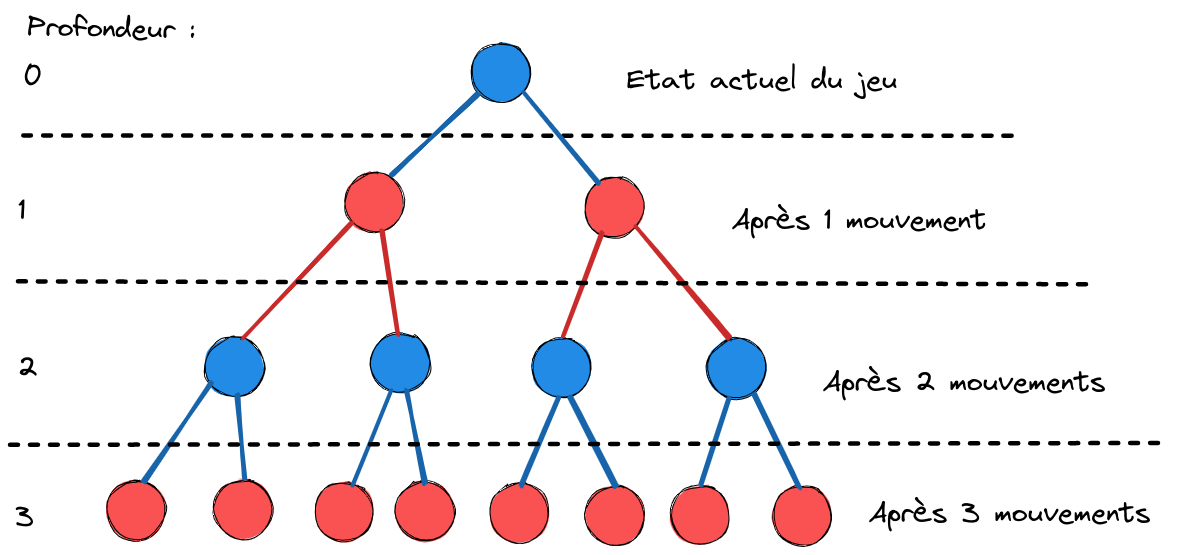
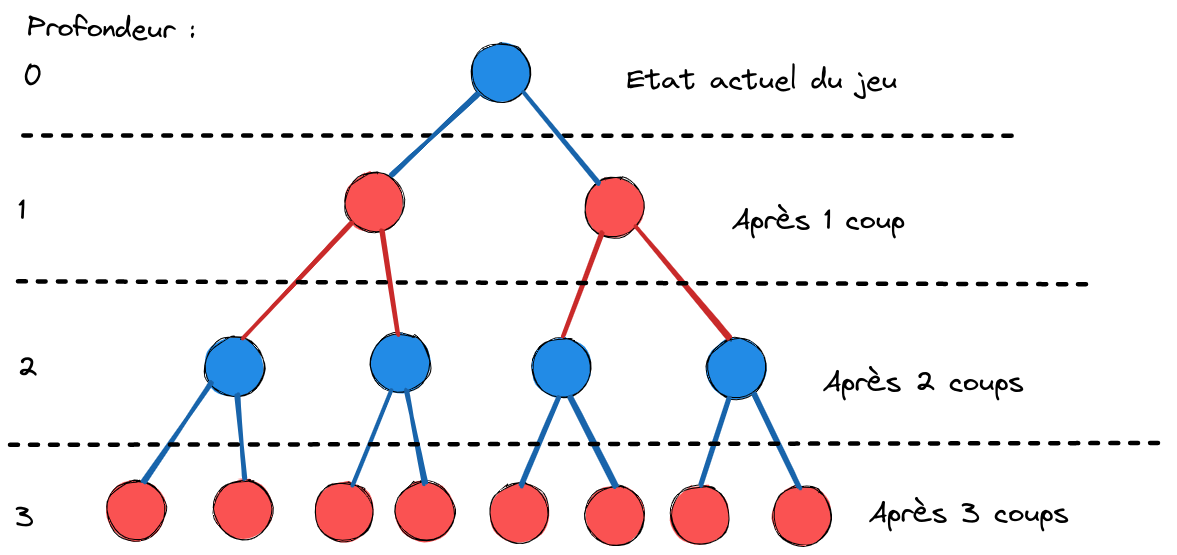
Je commence à en avoir marre

Changed region(s): [[0.7035, 0.3676, 0.8564, 0.4288], [0.8258, 0.8883, 0.9788, 0.9495], [0.7952, 0.6739, 0.9482, 0.7045]]

diff --git a/source/algorithme-minimax.md b/source/algorithme-minimax.md
@@ -6,65 +6,69 @@ Tout d'abord, il s'agit de définir le fonctionnement de l'algorithme Minimax et
 
 ### Arbre des possibilités
 
-L'algorithme Minimax fonctionne en recherchant dans une situation donnée, parmi tous les coups possibles, lequel est le plus favorable pour le joueur et le plus défavorable pour son adversaire. Concrètement, il s'agit d'explorer de haut en bas un arbre des possibilités qui recense tous les coups possibles, sur plusieurs coups à l'avance (le nombre de coups à l'avance représente la profondeur de recherche de l'algorithme) :
+L'algorithme Minimax fonctionne en recherchant dans une situation donnée, parmi tous les coups possibles, lequel est le plus optimal à jouer dans le but de gagner. Concrètement, il s'agit d'explorer de haut en bas un arbre des possibilités qui recense tous les coups possibles, sur plusieurs coups à l'avance (voir {numref}`minimax_tree`).
 
 ```{figure} images/minimax_tree.png
 ---
+name: minimax_tree
 ---
 
 Arbre des possibilités d'un jeu binaire, chaque noeuds représente un état possible du jeu.
 ```
 
-Les noeuds bleus représentent les états du jeu lorsque c'est au joueur de jouer le prochain coup tandi que les noeuds rouges représentent les états lorsque c'est à l'adversaire de jouer.
+Les noeuds bleus représentent les états du jeu lorsque c'est au premier joueur de jouer le prochain coup alors que les noeuds rouges représentent les états où c'est à son adversaire de jouer.
 
 ### Evaluation des feuilles
 
-Lors de son exploration de l'arbre, si l'algorithme atteint une feuille (un noeud de l'arbre qui ne se prolonge pas plus bas), soit parce que le jeu est arrivée à un terme, soit parce que la profondeur de recherche ne va pas plus bas par rapport au noeud initial, alors une fonction d'évaluation donne un score à l'état du jeu atteint :
+Lors de son exploration de l'arbre, si l'algorithme atteint un noeud feuille (un noeud de l'arbre qui n'a pas d'enfant), soit parce que le jeu est arrivé à un terme, soit parce que la profondeur de recherche ne va pas plus bas par rapport au noeud initial, alors une fonction d'évaluation donne une valeur au noeud feuille (voir {numref}`minimax_tree_score`).
 
 ```{figure} images/minimax_tree_score.png
 ---
+name: minimax_tree_score
 ---
 
 Attribution d'un score à toutes les feuilles de l'arbre.
 ```
 
-Plus le score est élevé, plus la fonction d'évaluation estime que le joueur est dans une position favorable. Tandis que plus le score est bas, plus l'adversaire est dans une position favorable.
+Plus la valeur attribuée est élevée, plus la fonction d'évaluation a estimé que le premier joueur est dans une position favorable. Tandis que plus le score est bas, plus son adversaire est dans une position favorable.
 
 ### Fonction d'évaluation
 
-Comme dit précédemment, la fonction d'évaluation permet à l'algorithme d'attribuer un score à un état du jeu en retournant une valeur qui représente l'avantage positionnel du joueur dans un état du jeu donné. Par exemple, si dans l'état du jeu étudié, le joueur a gagné le jeu, le score attribué à cet état sera significativement plus grand que dans un état où personne n'a encore gagné ou si c'est l'adversaire qui a gagné :
+Comme dit précédemment, la fonction d'évaluation permet à l'algorithme d'attribuer une sorte de score à un état du jeu en retournant une valeur qui représente l'avantage positionnel du premier joueur dans un état du jeu donné. Par exemple, si dans l'état du jeu évalué, le premier joueur a gagné, le score attribué à cet état sera significativement plus grand que dans un état où personne n'a encore gagné ou si c'est l'adversaire qui a gagné (voir {numref}`evaluation_function`).
 
 ```{figure} images/evaluation_function.png
 ---
+name: evaluation_function
 ---
 
 Entré/Sortie de la fonction d'évaluation.
 ```
 
-Le calcul se fait en prenant en compte le bénéfice de chaque joueur. Pour que cette évaluation puisse se faire il est important que le jeu qui implémente l'algorithme soit un jeu dit "à somme nulle". C'est-à-dire qu'il faut que le bénéfice d'un joueur entraîne un désavantage équivalent pour l'autre ; la somme des bénéfices et des désavantages doit donc être nulle. Ainsi, plus le joueur a de bénéfices par rapport à ses désavantages (qui correspondent aux bénéfices de l'adversaire), plus son score calculé est élevé.
+Le calcul se fait en prenant en compte le bénéfice de chaque joueur. Pour que cette évaluation puisse se faire, il est important que le jeu qui implémente l'algorithme soit un jeu dit "à somme nulle". C'est-à-dire qu'il faut que le bénéfice d'un joueur entraîne un désavantage équivalent pour l'autre ; la somme des bénéfices et des désavantages doit donc être nulle. Ainsi, plus le joueur a de bénéfices par rapport à ses désavantages (qui correspondent aux bénéfices de son adversaire), plus la sa valeur positionnelle calculée est importante.
 
 ### Déterminer le meilleur coup à jouer
 
-Maintenant que chaque feuille de l'arbre à un score attribué, il faut déterminer quel est le meilleur coup à jouer afin de poursuivre le chemin de l'arbre qui mène à l'état le plus favorable. Pour ce faire, l'algorithme procède selon deux suppositions :
+Maintenant que chaque feuille de l'arbre à une valeur attribuée, il faut déterminer quel est le meilleur coup à jouer afin de poursuivre le chemin de l'arbre qui mène à l'état le plus favorable. Pour ce faire, l'algorithme procède selon deux suppositions :
 
-- Le joueur veut jouer les meilleurs coups
-- L'adversaire va jouer tous les meilleurs coups pour lui.
+- Le premier joueur veut jouer les meilleurs coups. Il cherche donc à *maximiser* la valeur de chaque noeud, il s'agit du **joueur maximiseur**.
+- Son adversaire ne va jouer que les meilleurs coups. Son objectif est donc de *minimiser* la valeur de chaque noeud, il s'agit du **joueur minimiseur**.
 
-C'est là que le nom de l'algorithme Minimax prend tout son sens. En effet pour chaque noeud non-feuille, l'algorithme lui attribue le score minimal ou maximal parmi tous les noeuds enfants (note de bas de page!). Les règles pour décider quel score attribuer à chaque noeud est intuitif et découle directement des deux suppositions énoncées précédemment :
+C'est là que le nom de l'algorithme Minimax prend tout son sens. En effet pour chaque noeud non-feuille, l'algorithme lui attribue la valeur minimale ou maximale parmi tous ses noeuds enfants. Les règles pour décider quelle valeur attribuer à chaque noeud est intuitif et découle directement des deux suppositions énoncées précédemment :
 
-- Si le noeud à l'étude est un état du jeu dans lequel le joueur joue le prochain coup, alors le noeud obtient le score maximum parmi ses noeuds enfants.
-- Si c'est au tour de l'adversaire de jouer, alors le noeuds obtient le score minimal parmi ses noeuds enfants.
+- Si le noeud à l'étude est un état dans lequel le joueur maximiseur joue le prochain coup, alors le noeud obtient la valeur maximale parmi ses noeuds enfants, il s'agit d'un **noeud maximiseur**.
+- Si c'est au tour du joueur minimiseur de jouer, alors le noeud obtient la valeur minimale parmi ses noeuds enfants, il s'agit d'un **noeud minimiseur**.
 
-En procédant ainsi, chaque état du jeu est évalué en fonction du meilleur coup possible pour chaque joueur. C'est-à-dire que le joueur jouera les coups qui maximisent le score de chaque état du jeu, alors que l'adversaire jouera les coups qui minimisent ce score (d'où le nom Minimax) :
+En procédant ainsi, chaque état du jeu est évalué en fonction du meilleur coup possible pour chaque joueur (voir {numref}`minimax_value`).
 
 ```{figure} images/minimax_value.png
 ---
+name: minimax_value
 ---
 
-Attribution des scores à chaque noeud non-feuille.
+Attribution des valeurs à chaque noeud non-feuille.
 ```
 
-Maintenant que chaque noeud à un score, le joueur n'a plus qu'à jouer le coup qui maximisera son score. En l'occurence, dans l'exemple de l'image ci-dessus, le joueur à intérêt à jouer la coup qui l'amène au noeud de enfant de gauche (score=4) car c'est celui qui à le score le plus élevé parmi tous ses enfants.
+Maintenant que chaque noeud à une valeur, le joueur maximiseur n'a plus qu'à jouer le coup qui maximisera la valeur de son futur état. En l'occurence, dans l'exemple de la {numref}`Figure %s <minimax_value>`, le joueur maximiseur a intérêt à jouer la coup qui l'amène au noeud enfant de gauche (score=4) car c'est celui qui a la valeur la plus élevée parmi tous ses enfants.
 
 Il est important de préciser qu'une évaluation statique des enfants directs du noeud racine (note de bas de page !!!) aurait pu générer un score beaucoup plus élevé au noeud de droite (score=-5)  et inférieur au noeud de gauche (score=4) car la fonction d'évaluation ne prend pas en compte les coups qui suivent. Ainsi, le joueur aurait pu prendre une décision qui se serait révélée défavorable quelques coups plus tard. C'est donc tout le principe de l'algorithme que d'éviter ce scénario.
 

diff --git a/source/introduction.md b/source/introduction.md
@@ -4,4 +4,4 @@ De nos jours, l'algorithmie est devenue un élément essentiel de nos vies. Des 
 
 L'objet de ce travail est d'étudier ce fameux algorithme et de l'implémenter dans un jeu de puissance 4 afin d'en tester l'efficacité. Ce jeu est intéressant car il permet d'exploiter la force de l'algorithme sans pour autant que le jeu soit trop complexe. Il est également suffisamment complexe pour que l'implémentation de l'algorithme ait un intérêt.
 
-Ainsi, ce travail présentera d'abord l'algorithme Minimax et expliquera comment il fonctionne. Ensuite, il détaillera la structure du programme qui l'implémente et enfin, il présentera l'implémentation détaillée de l'algoritme.
+Ainsi, ce travail présentera d'abord l'algorithme Minimax et expliquera comment il fonctionne. Ensuite, il détaillera la structure du programme qui l'implémente et enfin, il présentera l'implémentation détaillée de l'algorithme.

diff --git a/source/sources.md b/source/sources.md
@@ -1,1 +1,10 @@
 # Sources
+
+## Comprendre l'algorithme Minimax
+
+- https://fr.wikipedia.org/wiki/Algorithme_minimax
+- https://softwareengineering.stackexchange.com/questions/263514/why-does-this-evaluation-function-work-in-a-connect-four-game-in-java
+- https://fr.wikipedia.org/wiki/%C3%89lagage_alpha-b%C3%AAta
+- https://www.youtube.com/watch?v=KU9Ch59-4vw
+- https://www.youtube.com/watch?v=l-hh51ncgDI
+- https://www.youtube.com/watch?v=f30Ry1WOe_Q
